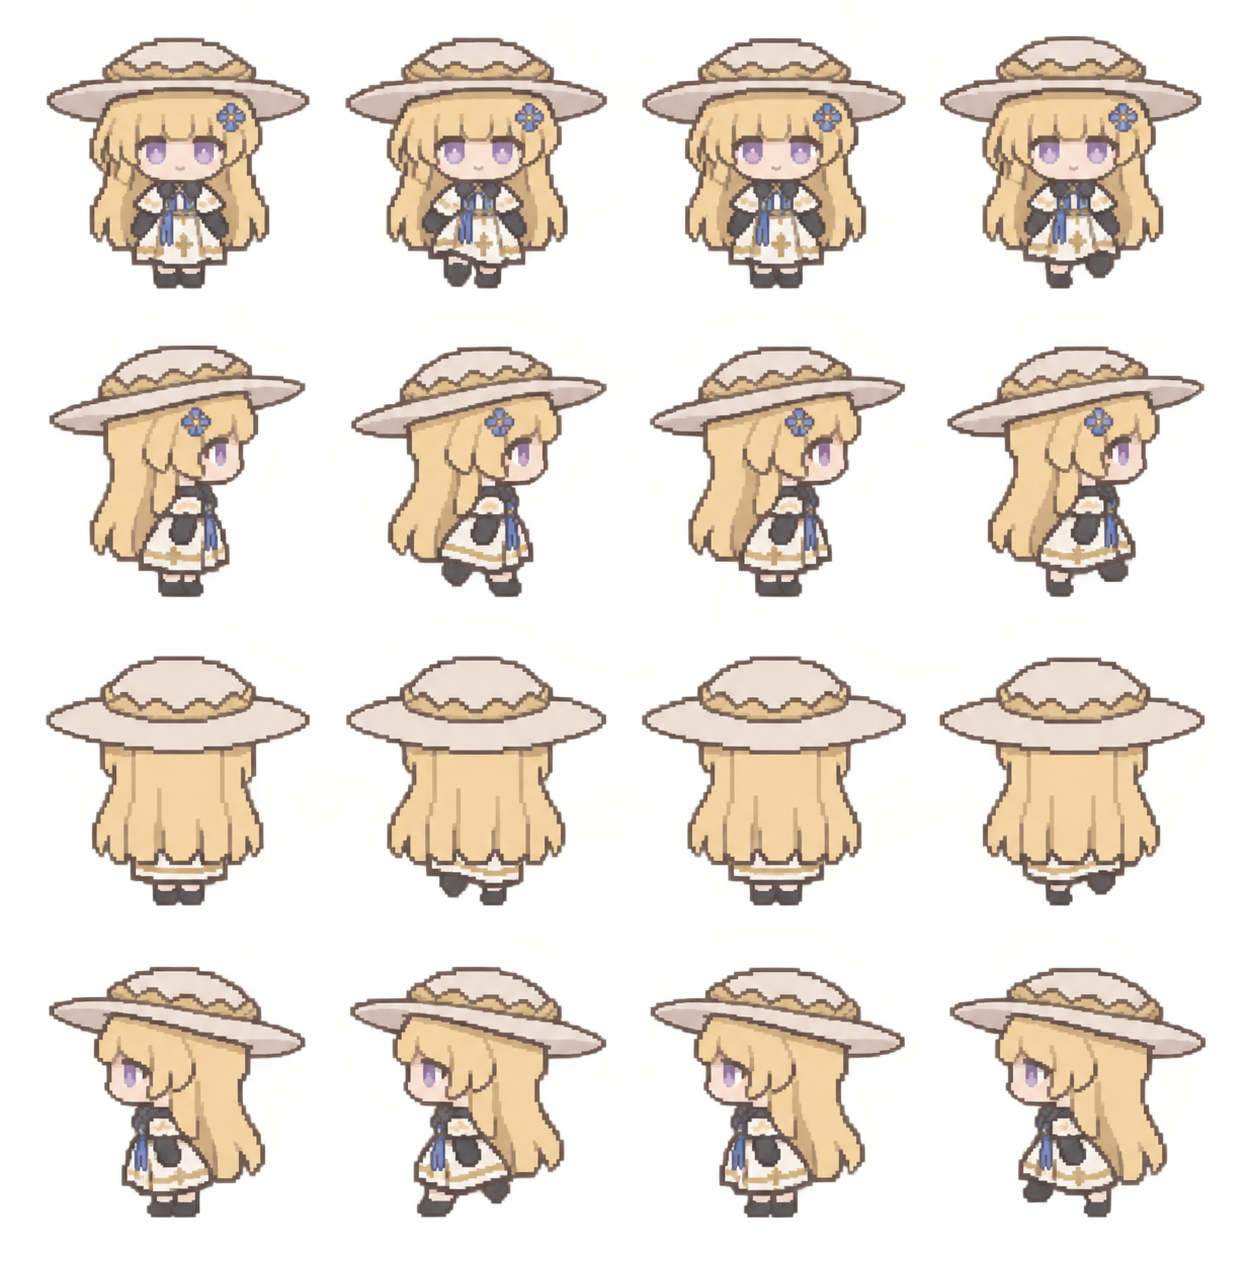
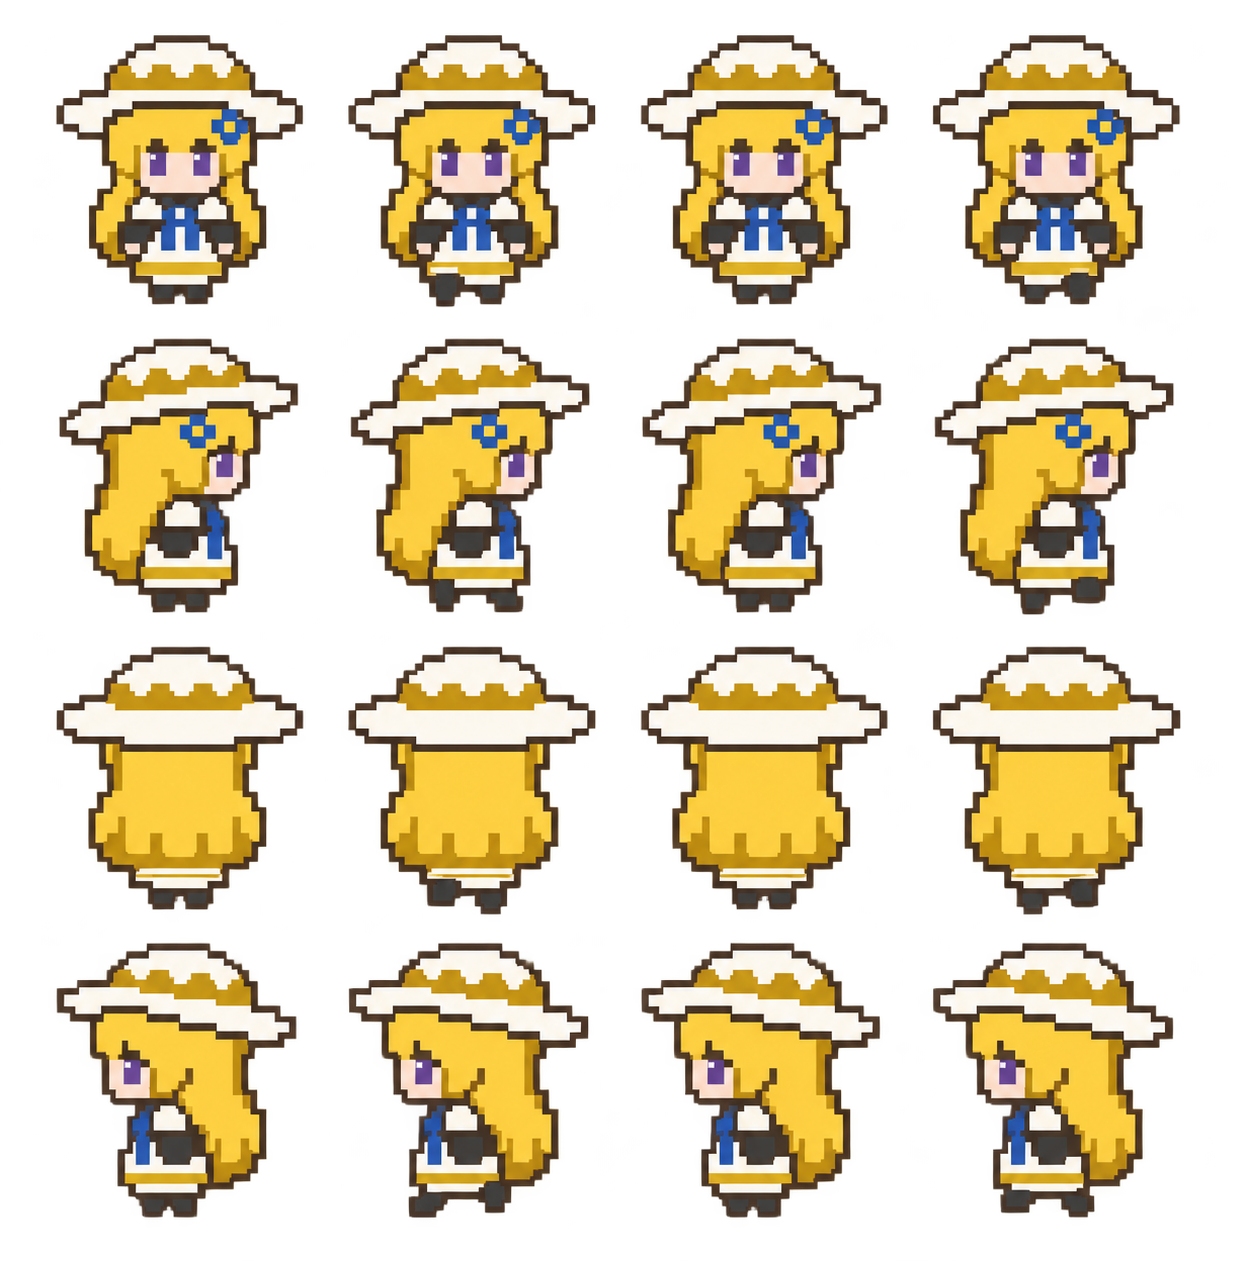
fix: clarify classic Phoebe face outlines and color clusters
Redraw classic idle/walk with simplified pixel clusters and raise classic target height to 32 pixels. AI-assisted by OpenAI Codex and OpenAI image generation.

diff --git a/preview.html b/preview.html
@@ -14,7 +14,7 @@ const v=document.querySelector('#variant'),s=document.querySelector('#sheet'),st
 let frames=[],cols=4,rows=4,playing=true,serial=0;
 function resizeDisplay(){const dpr=window.devicePixelRatio||1;canvas.width=Math.round(480*dpr);canvas.height=Math.round(680*dpr);ctx.setTransform(canvas.width/480,0,0,canvas.height/680,0,0);ctx.imageSmoothingEnabled=false}
 resizeDisplay();window.addEventListener('resize',resizeDisplay);
-function height(name,r,c){return name==='crouch'&&c<2||name==='tools'&&c===2?23:name==='misc'&&r===0?(c===3?12:22):28}
+function height(name,r,c){const extra=v.value==='classic'?4:0;return name==='crouch'&&c<2||name==='tools'&&c===2?23+extra:name==='misc'&&r===0?(c===3?12:22+extra):28+extra}
 async function load(){const ticket=++serial;last=0;frames=[];if(v.value==='off'){status.textContent='外观已关闭：游戏中恢复原版农夫（此预览不含原版素材）';return}status.textContent='加载中…';try{
 const name=s.value,image=new Image();image.src=`PhoebeFarmer/assets/${v.value}/${name}.png`;const response=await fetch(`PhoebeFarmer/assets/${v.value}/frames.json`);if(!response.ok)throw Error('缺少帧位置文件');const bounds=(await response.json())[name];await image.decode();if(ticket!==serial)return;[cols,rows]=layouts[name];
 const off=document.createElement('canvas');off.width=image.width;off.height=image.height;const oc=off.getContext('2d',{willReadFrequently:true});oc.drawImage(image,0,0);const p=oc.getImageData(0,0,off.width,off.height).data;

diff --git a/PhoebeFarmer/SpriteSheet.cs b/PhoebeFarmer/SpriteSheet.cs
@@ -7,7 +7,7 @@ namespace PhoebeFarmer;
 internal static class SpriteSheet
 {
     // Generated source art is normalized once, not scaled or scanned during drawing.
-    public static Texture2D Prepare(Texture2D source, int cols, int rows, string name, int[][] bounds)
+    public static Texture2D Prepare(Texture2D source, int cols, int rows, string name, int[][] bounds, string variant)
     {
         if (source.Width < cols * 8 || source.Height < rows * 8)
             throw new InvalidOperationException("Sprite sheet is too small.");
@@ -42,7 +42,7 @@ internal static class SpriteSheet
                         referenceWidth = Math.Max(referenceWidth, other[2]);
                         referenceHeight = Math.Max(referenceHeight, other[3]);
                     }
-                var fit = FrameGeometry.Fit(w, h, FrameGeometry.Height(name, row, col), referenceWidth, referenceHeight);
+                var fit = FrameGeometry.Fit(w, h, FrameGeometry.Height(name, row, col, variant), referenceWidth, referenceHeight);
                 for (int y = 0; y < fit.Height; y++)
                     for (int x = 0; x < fit.Width; x++)
                     {

diff --git a/PhoebeFarmer/FrameGeometry.cs b/PhoebeFarmer/FrameGeometry.cs
@@ -24,11 +24,12 @@ internal static class FrameGeometry
     public static (bool Enabled, string Variant) NextAppearance(bool enabled, string variant) =>
         !enabled ? (true, "are") : variant == "are" ? (true, "classic") : (false, "classic");
 
-    public static int Height(string sheet, int row, int col)
+    public static int Height(string sheet, int row, int col, string variant = "are")
     {
-        if (sheet == "crouch" && col < 2) return 23;
-        if (sheet == "misc" && row == 0) return col == 3 ? 12 : 22;
-        if (sheet == "tools" && col == 2) return 23;
-        return 28;
+        int extra = variant == "classic" ? 4 : 0;
+        if (sheet == "crouch" && col < 2) return 23 + extra;
+        if (sheet == "misc" && row == 0) return col == 3 ? 12 : 22 + extra;
+        if (sheet == "tools" && col == 2) return 23 + extra;
+        return 28 + extra;
     }
 }

diff --git a/tests/Program.cs b/tests/Program.cs
@@ -46,3 +46,7 @@ Check(smallStep.Y + smallStep.Height == 40 && tallStep.Y + tallStep.Height == 40
 Check(FrameGeometry.NormalizeVariant("dumpling") == "classic", "Existing outfit 2 configs migrate to classic");
 Check(FrameGeometry.NormalizeVariant("CLASSIC") == "classic", "Classic config is case insensitive");
 Check(FrameGeometry.NormalizeVariant("unknown") == "are", "Unknown config falls back to outfit 1");
+
+Check(FrameGeometry.Height("walk",0,0,"classic")==32, "Classic gets 32 pixels for clearer face and trim");
+Check(FrameGeometry.Height("walk",0,0,"are")==28, "ARE size stays unchanged");
+Check(FrameGeometry.Height("misc",0,3,"classic")==12, "Lying pose remains horizontal");

diff --git a/PhoebeFarmer/ModEntry.cs b/PhoebeFarmer/ModEntry.cs
@@ -51,7 +51,7 @@ namespace PhoebeFarmer
                     {
                         var source = helper.ModContent.Load<Texture2D>(path);
                         string name = Path.GetFileNameWithoutExtension(layout.File);
-                        loaded[sheet] = SpriteSheet.Prepare(source, layout.Cols, layout.Rows, name, bounds[name]);
+                        loaded[sheet] = SpriteSheet.Prepare(source, layout.Cols, layout.Rows, name, bounds[name], variant);
                     }
                     catch (Exception ex)
                     {

diff --git a/README.md b/README.md
@@ -3,13 +3,13 @@
 将《星露谷物语》的玩家外观替换为菲比，并在 **03 ARE 款**与 **06 经典款**之间切换。
 基于 [Darian 的 Whale Farmer](https://github.com/Darianliu23/stardew-deepseek-whale-maid-player-sprite) 改造。
 
-**0.1.4 是待实机验收的预发布版本。** 使用公开参考程序集编译；开发机器没有安装游戏。
+**0.1.5 是待实机验收的预发布版本。** 使用公开参考程序集编译；开发机器没有安装游戏。
 编译通过不代表已验证实际游戏中的动画、工具对位或模组兼容性。
 
 ## 安装
 
 1. 准备 PC 版 Stardew Valley **1.6.15** 和 **SMAPI 4.4.0 或更新版本**。
-2. 从本仓库 Releases 下载 `PhoebeFarmer-0.1.4.zip`。
+2. 从本仓库 Releases 下载 `PhoebeFarmer-0.1.5.zip`。
 3. 将 ZIP 内的 `PhoebeFarmer` 文件夹解压到游戏的 `Mods` 目录。
    路径应为 `Mods/PhoebeFarmer/manifest.json`，不要再多套一层文件夹。
 4. 通过 SMAPI 启动游戏，进入存档后使用快捷键。
@@ -52,8 +52,9 @@
 
 两款各包含七张透明姿态表：四向走路、挥重工具、挥武器、蹲下/浇水、钓鱼、吃喝和坐下/表情。
 贴图已按小尺寸像素造型重绘。加载时按 `frames.json` 的逐帧边界提取角色，
-保留主色块并归一到 40×40 像素帧，脚底对齐；站立角色高约 28 像素。
+保留主色块并归一到 40×40 像素帧，脚底对齐；ARE 站立角色高约 28 像素，经典款高约 32 像素。
 取样不使用颜色平均混合，避免五官与描边混成灰色。
+经典款站立/走路图简化了细碎发丝和饰边，以更大的眼睛色块和连续描边改善小尺寸可读性。
 同方向的走路帧共用缩放比例，减少逐帧拉伸导致的五官闪动；网页画布适配屏幕像素密度。
 走路采用固定上身加四帧脚步：同方向的帽子、脸、头发与躯干复用站姿，上身不再逐帧切换。
 这样减少描边跳变，但上身摆动更少；其他动作仍由原版农夫帧号驱动。
@@ -74,7 +75,7 @@
 ./build.ps1
 ```
 
-脚本获取公开的编译专用参考程序集，运行无图形环境的几何/切换检查，编译并输出 `dist/PhoebeFarmer-0.1.4.zip`。
+脚本获取公开的编译专用参考程序集，运行无图形环境的几何/切换检查，编译并输出 `dist/PhoebeFarmer-0.1.5.zip`。
 参考程序集仅用于编译，不可用于运行游戏，也不会打入安装包。
 已有游戏和 SMAPI 时可指定：
 

diff --git a/art/classic-clarity-0.1.5.md b/art/classic-clarity-0.1.5.md
@@ -1,0 +1,6 @@
+# Classic clarity 0.1.5
+
+Built-in image generation edit of assets/classic/walk.png. Only walk/idle art was redrawn; other classic actions receive the 32-pixel target height but retain their earlier artwork.
+
+Prompt:
+Edit this classic Phoebe walk sheet for true tiny-game readability. Keep character identity: LOW crown broad ivory hat, simple gold scalloped crown band, straight blond fringe and long hair, small blue flower, purple eyes, white gold dress dark charcoal sleeves and blue ribbons. Change ONLY rendering/detail economy: genuine 32-pixel-tall pixel art drawn on ONE regular square grid, enlarge nearest-neighbor. Each eye is a clear solid 2x3 violet rectangle with ONE bright pixel; face is clean peach with no hair shadow across eyes. Thin continuous dark warm brown outline ONE logical pixel, NO broken dashes and NO isolated dark freckles. Hat fill white ivory not beige/skin; hair rich golden yellow with just one darker shadow; clear contrast between skin/hair/white fabric. Remove hair strand lines, remove tiny hem crosses and micro trim, simplify gold decoration to broad readable blocks. At most 16 solid colors. NO gradients, blur, subpixel antialiasing or illustrated fine lines. All 16 full-body sprites in exact 4x4 grid, roomy transparent gaps: rows front/right/back/left; cols neutral/left step/neutral/right step. Each direction identical upper body across fourframes, feet only move. The reference is too finely illustrated: deliberately redesign clusters for 32-pixel tall characters, preserve silhouette and costume. Transparent alpha background, no haze no text no grid.
